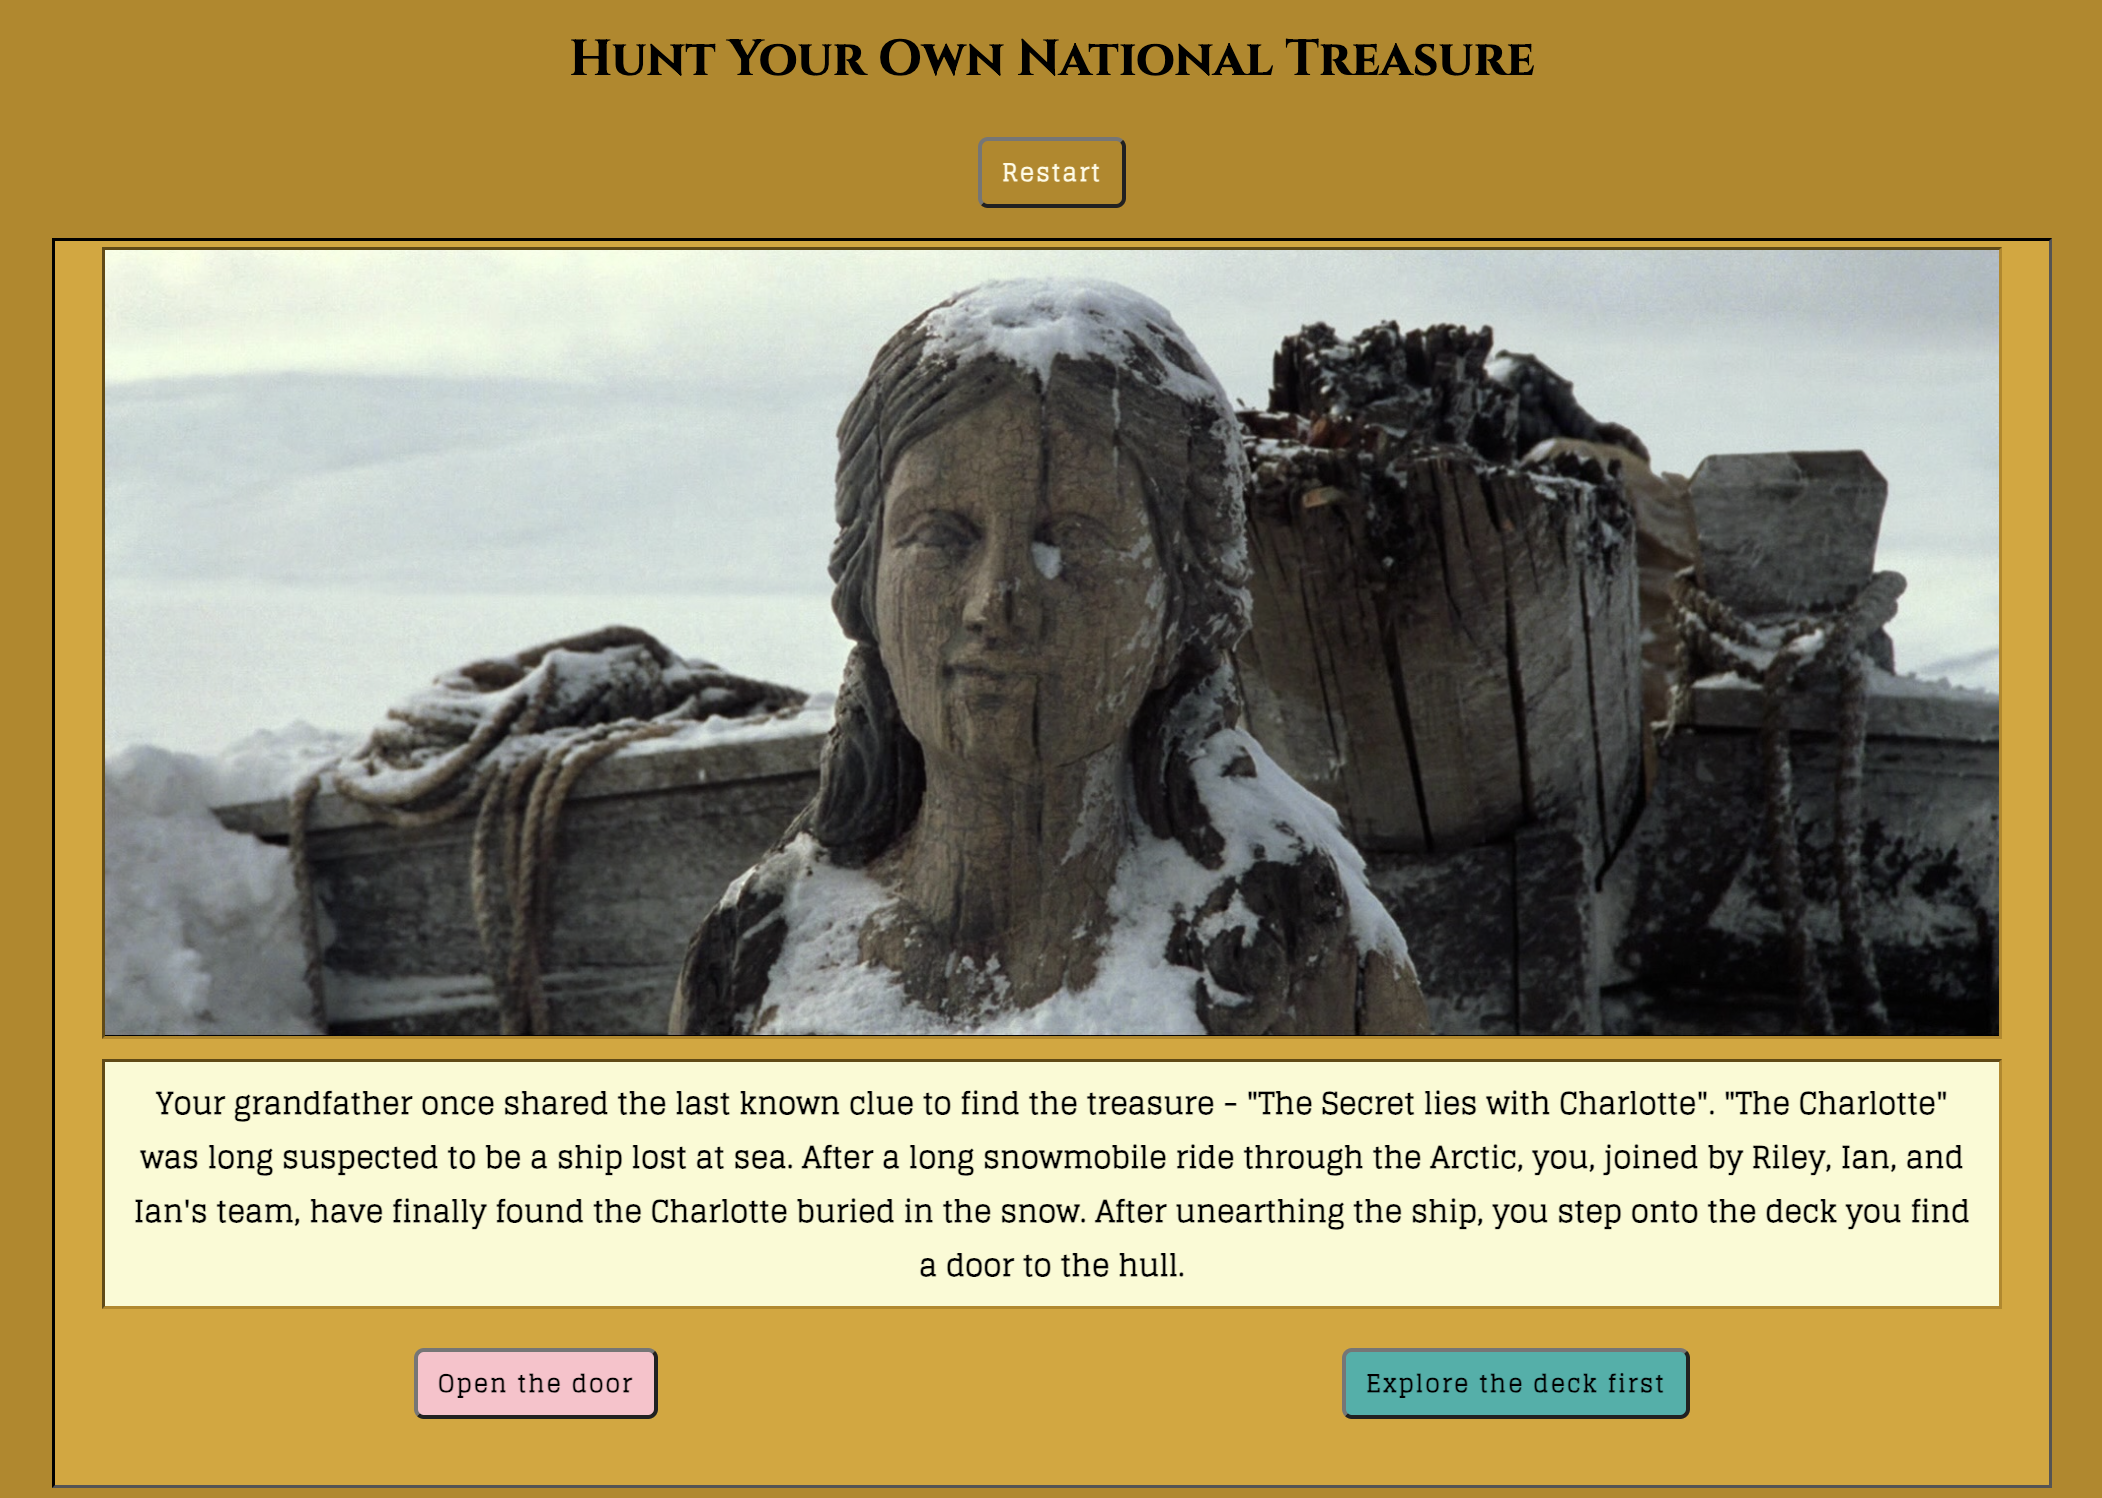
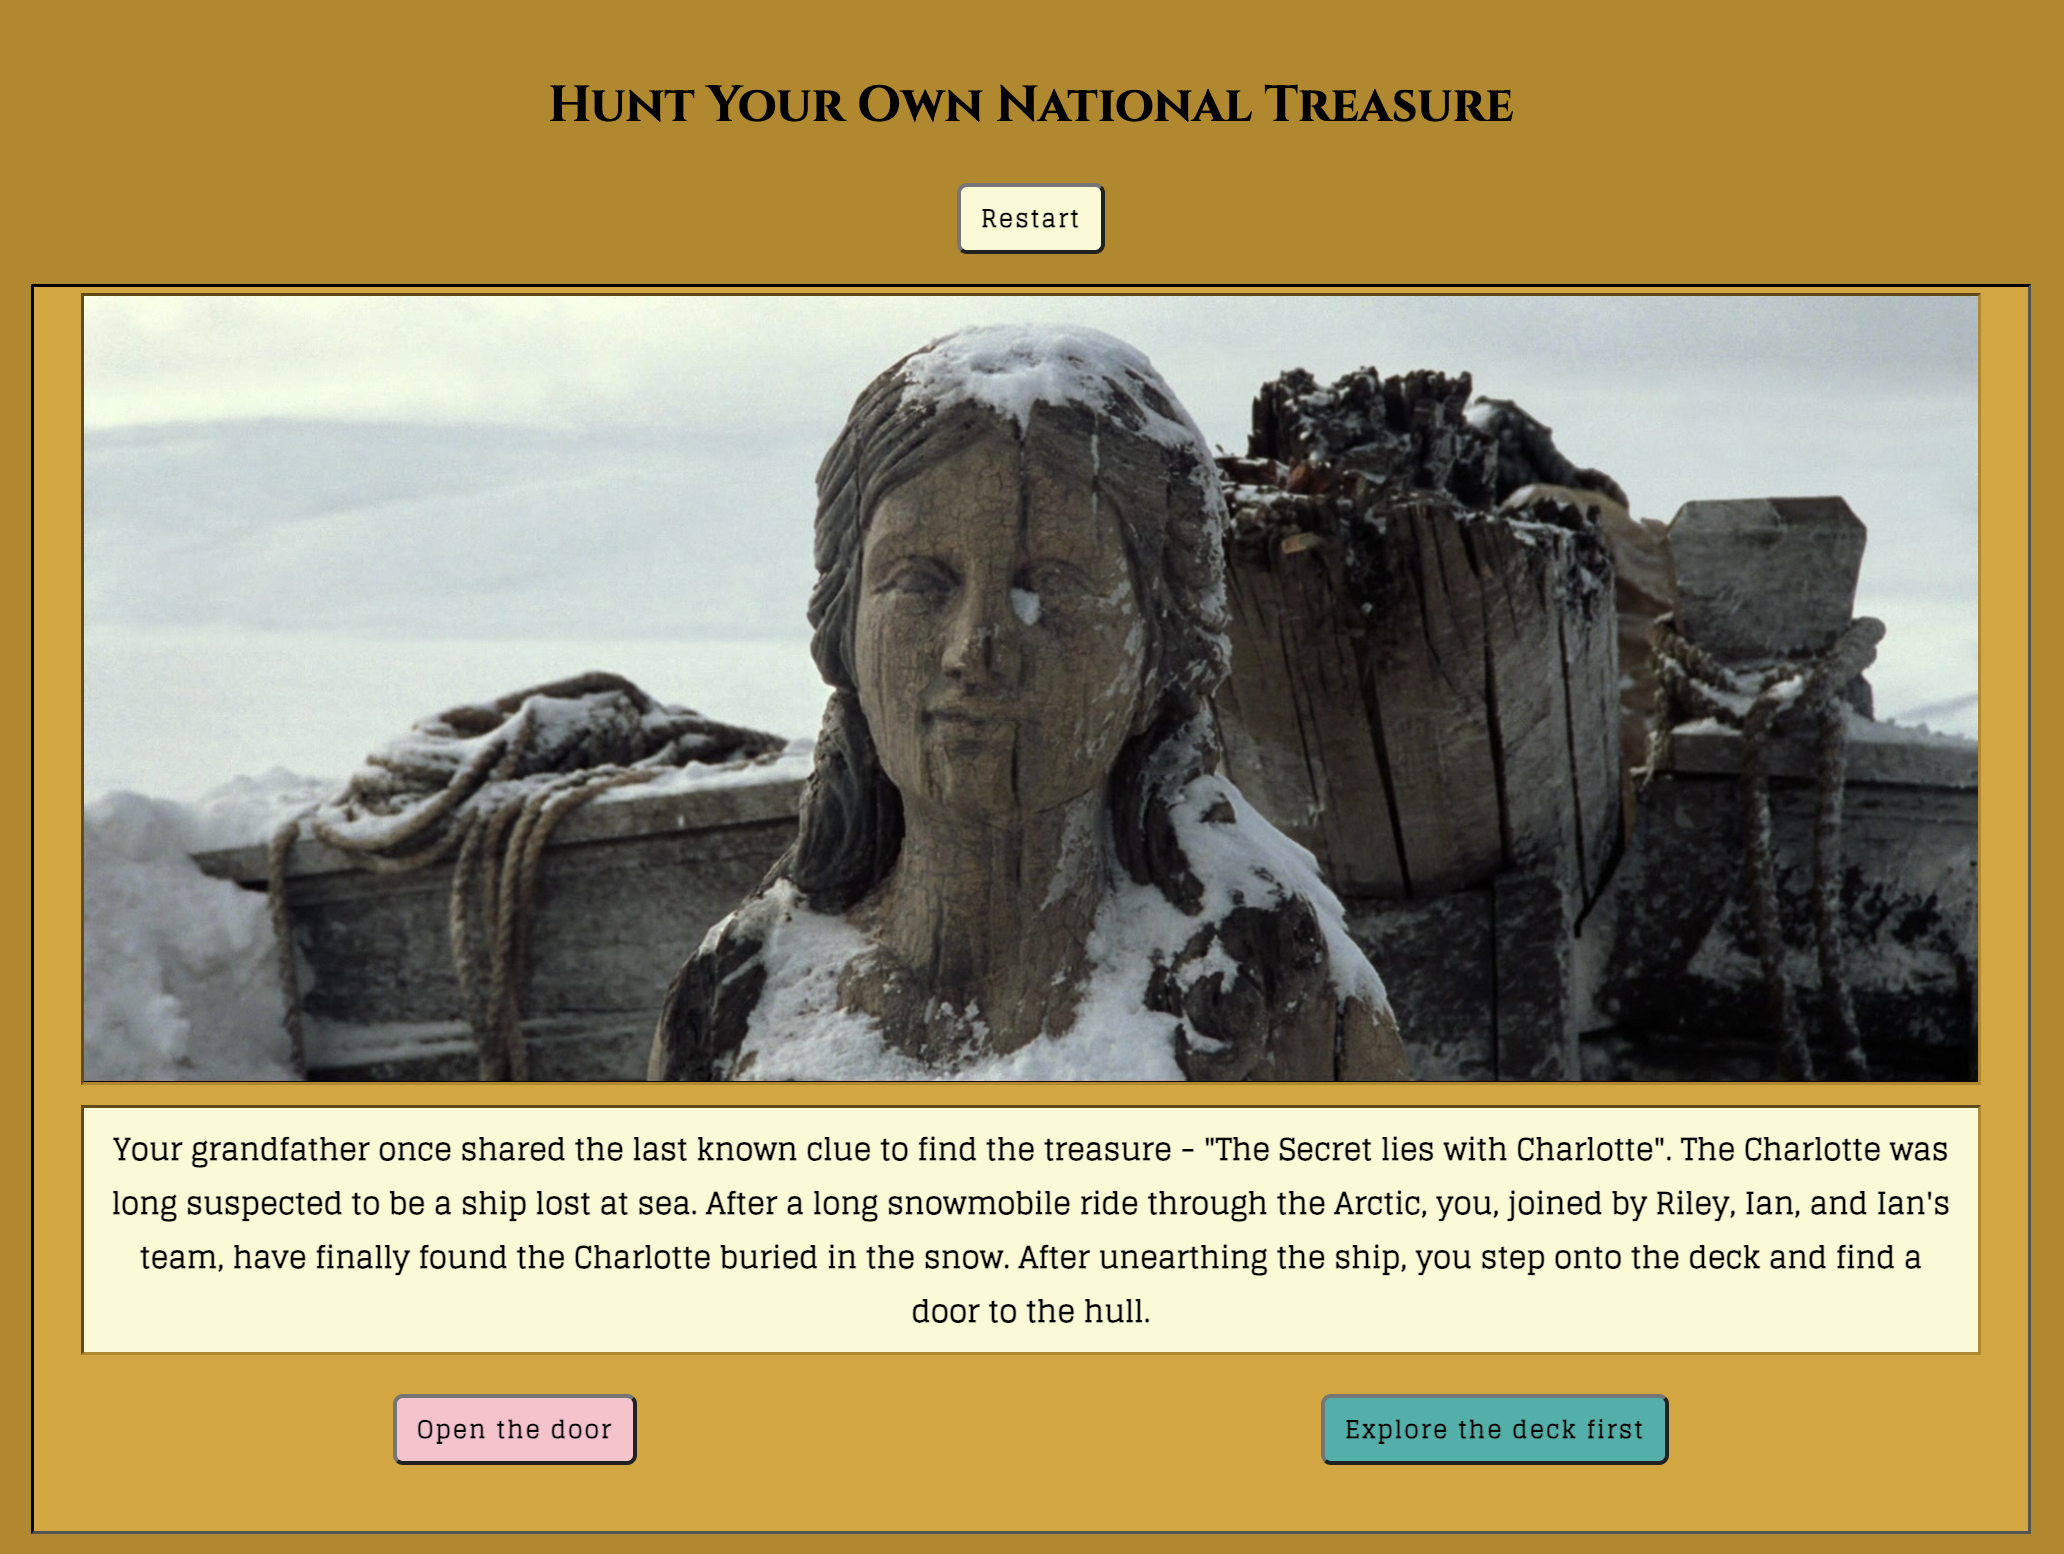
fix broken image links in README, add movie screenshots to README, fix typos in README and story.js file

Changed region(s): [[0.0, 0.0307, 0.9922, 1.0]]

diff --git a/data/story.js b/data/story.js
@@ -3,7 +3,7 @@ const storyObjs = [
   {
     image: '../assets/images/image0.jpeg',
     promptNum: 0,
-    prompt: `Your grandfather once shared the last known clue to find the treasure - "The Secret lies with Charlotte". "The Charlotte" was long suspected to be a ship lost at sea. After a long snowmobile ride through the Arctic, you, joined by Riley, Ian, and Ian's team, have finally found the Charlotte buried in the snow. After unearthing the ship, you step onto the deck you find a door to the hull.`,
+    prompt: `Your grandfather once shared the last known clue to find the treasure - "The Secret lies with Charlotte". The Charlotte was long suspected to be a ship lost at sea. After a long snowmobile ride through the Arctic, you, joined by Riley, Ian, and Ian's team, have finally found the Charlotte buried in the snow. After unearthing the ship, you step onto the deck and find a door to the hull.`,
     options: [
       {
         opt1: `Open the door`,
@@ -105,6 +105,7 @@ const storyObjs = [
       }
     ]
   },
+  // WIN/LOSE OBJECTS BELOW, new story objects will be added above
   {
     image: '../assets/images/CHUGCHAMPAGNEWINNER.jpeg',
     promptNum: 7,

diff --git a/README.md b/README.md
@@ -1,27 +1,32 @@
-# Hunt Your Own National Treasure
+# 📜 Hunt Your Own National Treasure 🪙
 
 #### A Choose Your Own Adventure Game inspired by the cinematic masterpiece _National Treasure_ (2004)
 
+> "Ben, you can't steal the Declaration of Independence. It's like stealing a national monument...not that it _can't_ be done - but it ***_shouldn't_*** be done." 🗽
 
+![Screencap from National Treasure of Ben Gates with the Declaration](/assets/images/MovieScreencap1.jpeg)
 
-> "Ben, you can't steal the Declaration of Independence. It's like stealing a national monument...not that it _can't_ be done - but it ***_shouldn't_*** be done."
+_We'll see about that._
 
-![Screenshot of the first page of the game](http://natl-treasure-cyoadventure.netlify.app/assets/images/gameScreenshotFirstPage.jpeg)
-
-Your name is Benjamin Franklin Gates, you are the last of a line of discgraced treasure hunters, and you are determined to find the infamous Knights Templar Treasure that your grandfather told you about as a kid. You have put together a team: your trusty tech buddy Riley Poole, your benefactor Ian, and Ian's group of henchmen. Together, you're going to find the treasure and redeem your family's name.
+Your name is Benjamin Franklin Gates, you are the last of a line of discgraced treasure hunters, and you are determined to find the legendary Knights Templar Treasure that your grandfather told you about as a kid. You have put together a team: your trusty tech buddy Riley Poole, your benefactor Ian, and Ian's group of henchmen. Together, you're going to find the treasure and redeem your family's name.
 
 But to find a treasure, you need a map. And what better place for the map to be hidden than on the back of the Declaration of Independence? But you can't exactly...borrow it.
 
+![Screenshot of the first page of the game](/assets/images/gameScreenshotFirstPage.png)
+
 The goal of this game is to successfully steal the Declaration of Independence. As you move through the story, you will be presented with a decision to make and two option buttons to choose from. Each time you click an option button, you will advance the story into a new scene in your own unique adventure. Choose wisely, and your hunt will end in success! Choose poorly, and the fate of your hunt could be ruinous.
 
-If you don't like how your hunt is going and you regret some of your choices, click the Restart button under title to start fresh at the starting decision with a new hunt.
+![Screencap from National Treasure of Ben Gates with the Declaration](/assets/images/MovieScreencap2.jpeg)
+> Someone's got to go to prison, Ben. ⚖
 
-## So, do you think you can steal the Declaration of Independence? [Start Your Hunt Here](http://natl-treasure-cyoadventure.netlify.app "Hunt Your Own National Treasure") 📜
+If you don't like how your treasure hunt is going and you regret some of your choices, click the Restart button under title to start fresh at the starting decision with a new hunt.
 
-![Screenshot of the winning page of the game](http://natl-treasure-cyoadventure.netlify.app/assets/images/WinnerScreenshot.jpeg)
+## So, do you think you can steal the Declaration of Independence? [Start Your Treasure Hunt Here](http://natl-treasure-cyoadventure.netlify.app "Hunt Your Own National Treasure") 📜
 
-## Attributions 🙌
-* Fonts are from [Google Fonts](https://fonts.google.com/ "Browse Google Fonts"), and additional font research was found in the [r/identifythisfont Subreddit](https://www.reddit.com/r/identifythisfont "r/identifythisfont")
+![Screenshot of the winning page of the game](/assets/images/WINNERChampagneTreasonToast.png)
+
+## Attributions 🎉
+* Fonts are sourced from [Google Fonts](https://fonts.google.com/ "Browse Google Fonts"), and additional font research was found in the [r/identifythisfont Subreddit](https://www.reddit.com/r/identifythisfont "r/identifythisfont")
 * Images are sourced from [HD/HQ Movie Screencaps Gallery](https://kissthemgoodbye.net/movie/thumbnails.php?album=309 "HD/HQ Movie Screencaps Gallery - kissthemgoodbye.net") and [FanCaps.net](https://fancaps.net/ "FanCaps.net")
 * New methods research found in [MDN Web Docs](https://developer.mozilla.org/en-US/ "MDN Web Docs") and the [r/learnjavascript Subreddit](https://www.reddit.com/r/learnjavascript "r/learnjavascript") 
 * Confetti code is from [GA's SEI Github (Private Repository)](https://github.com/SEI-Remote/confetti/blob/main/confetti.js "SEI-Remote/confetti GitHub Repo")
@@ -34,40 +39,41 @@ If you don't like how your hunt is going and you regret some of your choices, cl
 ![GitHub](https://img.shields.io/badge/github-%23121011.svg?style=for-the-badge&logo=github&logoColor=white)
 
 ## Ice Box 🧊
+- [x] Confetti!
 - [ ] Sound Effects
-- [ ] Mobile responsiveness
 - [ ] Light/Dark Mode
+- [ ] Mobile responsiveness
 - [ ] Fun cursor
-- [ ] Intro sequence (model after Christopher Plummer scene) summarizing the lore of the National Treasure and intro-ing you to where you are at the beginning of the story 
-  - [ ] With animations
+- [ ] Intro sequence (modeled after Christopher Plummer scene from movie) that summarizes the lore of the Knights Templar Treasure, as well as the plot of the story up to the point where the player begins the game 
+  - [ ] Include animations
+- [ ] Toggle sound on/off button
+- [ ] Start/Main Menu screen that loads before game starts, containing the game title, an image, and a button to click to start the game. Also leaves room in the display for more buttons to be added as icebox features are added.
 - [ ] Pre-Main Menu screen animation
   - [ ] Image of all-seeing eye (holographic, transparent) slowly blinking/fading in and out on opening screen, something clearly clickable (‘start’ or ‘open’ as a placeholder) clearly indicating to the player that when they click they will be taken to a start/main menu screen
-- [ ] Start/Main Menu screen that loads before game starts, containing the game title, an image, and a button to click to start the game. Also leaves room in the display for more buttons to be added as icebox features are added.
-- [ ] Ability for user to save and load unfinished games
-  - [ ] Would add Load Game button to main menu that, when clicked, renders a message to the user to click on on the save file they want to load, and 3 clickable containers that correspond to up to 3 different save files
-  - [ ] Potentially add ability to save even more than 3 files
-- [ ] Toggle sound on/off button
-- [ ] Cheat code features (player loads game and types out a code before clicking anything)
-  - [ ] Accurate DC Traffic Laws Mode
-  - [ ] Confetti Mode
-  - [ ] Romantic Tension Mode (would still be 2000’s Disney PG rated)
-  - [ ] Sean Bean Mode (player swaps characters and plays through the game as Sean Bean’s character, Ian)
-    - [ ] This icebox feature is extra icy - obviously a large undertaking bc it will essentially mean rewriting a second version of the game, but from Ian’s POV
-- [ ] Computer player
-  - [ ] Computer controls Sean Bean, computer’s decisions can both positively and negatively affect the player’s chances of winning
-- [ ] Flesh out dialogue and extra bits of story that the player can click through and read between Decision Points in the game
-  - [ ] Extra Icy: animations when clicking through back-and-forth dialogue between two characters, eg. speaker is more pronounced/in foreground, listener is less pronounced/slightly greyed out/closer to background
-- [ ] Extended story:
-  - [ ] Initial game will only be the story up through Ben initially stealing the Declaration from the National Archives
-  - [ ] Want to add an option for the player to continue the story after the Archives plot ends, leading them through the rest of the plot of the movie where the player will:
-    - [ ] Decide if/when to tell Ben’s father that he stole the Declaration
-    - [ ] Travel from DC to Philadelphia and NYC while continuing to protect the Declaration from Ian, run from the FBI, and find more clues to the treasure
-    - [ ] Find the treasure and decide what to do with it! (If you can escape the underground caverns where it’s hidden!)
-- [ ] Player settings button - renders container with message + menu of buttons the user can click to:
+- [ ] Ability for player to save and load unfinished games
+  - [ ] Add Load Game button to main menu that, when clicked, renders a message to the player to click a button to open their saved game, which takes them to the last prompt the player received before saving.
+  - [ ] Add ability to save up to 3 files. Clicking the Load Game button would then render a message to the player to click to click on the save file they want to load, and 3 clickable containers will be displayed that correspond to up to 3 different save files. If the player has fewer than 3 saved games, the unused containers will not be clickable.
+  - [ ] Add ability to save even more than 3 files
+- [ ] Player settings button - renders container with message and menu of buttons the user can click to:
   - Adjust sound volume
   - Save game
   - Start Over
   - Return to menu
-  - [ ] If Settings button can be built in, additional goal would be to only keep these buttons in a Settings menu, and no longer render them individually on screen while the game is being played
+  - [ ] After Settings button is built in, these buttons will only be in the Settings menu, and no longer rendered individually on screen while the game is being played
+- [ ] ***_Extended story:_***
+  - [ ] Initial game will only include the plot up through Ben initially stealing the Declaration from the National Archives
+  - [ ] Add an option for the player to either end the game, or to continue the story after the Archives plot ends and attempt to find the Knights Templar treasure itself. If they choose to continue, the player gets to:
+    - Decide if/when to tell Ben’s father that he stole the Declaration
+    - Travel from DC to Philadelphia and NYC while continuing to protect the Declaration from Ian, run from the FBI, and find more clues leading to the treasure
+    - Find the treasure and decide what to do with it! (If they can escape the underground caverns where it’s hidden!)
+- [ ] Cheat code features (player loads game and types out a code before clicking any buttons)
+  - [ ] Accurate DC Traffic Laws Mode - Parking and getting back to the getaway van with the Declaration gets more challenging!
+  - [ ] Confetti Mode - Confetti animation runs with both Win and Lose endings, as well as random prompts throughout the game
+  - [ ] Romantic Tension Mode - Can you steal the Declaration **_and_** Abigail's heart? (would still be 2000’s Disney PG rated)
+  - [ ] 🧊🧊 **Extra Icy:** Sean Bean Mode - Player swaps characters and plays through the game as Sean Bean’s character, Ian. Will be a large undertaking as it will mean rewriting a second version of the game, but from Ian’s POV
+- [ ] Flesh out dialogue and extra bits of story that the player can click through and read between Decision Points in the game
+  - [ ] 🧊🧊 **Extra Icy:** animations when clicking through back-and-forth dialogue between two characters, eg. speaker is more pronounced/in foreground, listener is less pronounced/slightly greyed out/closer to background
+- [ ] 🧊🧊🧊 ***_Ultra Icy:_*** Computer player
+  - [ ] Computer controls Sean Bean, computer’s decisions can both positively and negatively affect the player’s chances of winning
 
 ### [View my Planning Materials](https://docs.google.com/document/d/1ZFDcidKbpyUpEmeshoS9aI2OC8LTM0BoioFQvgvnPTU/edit?usp=sharing "Hunt Your Own National Treasure Planning Materials") 🗒
